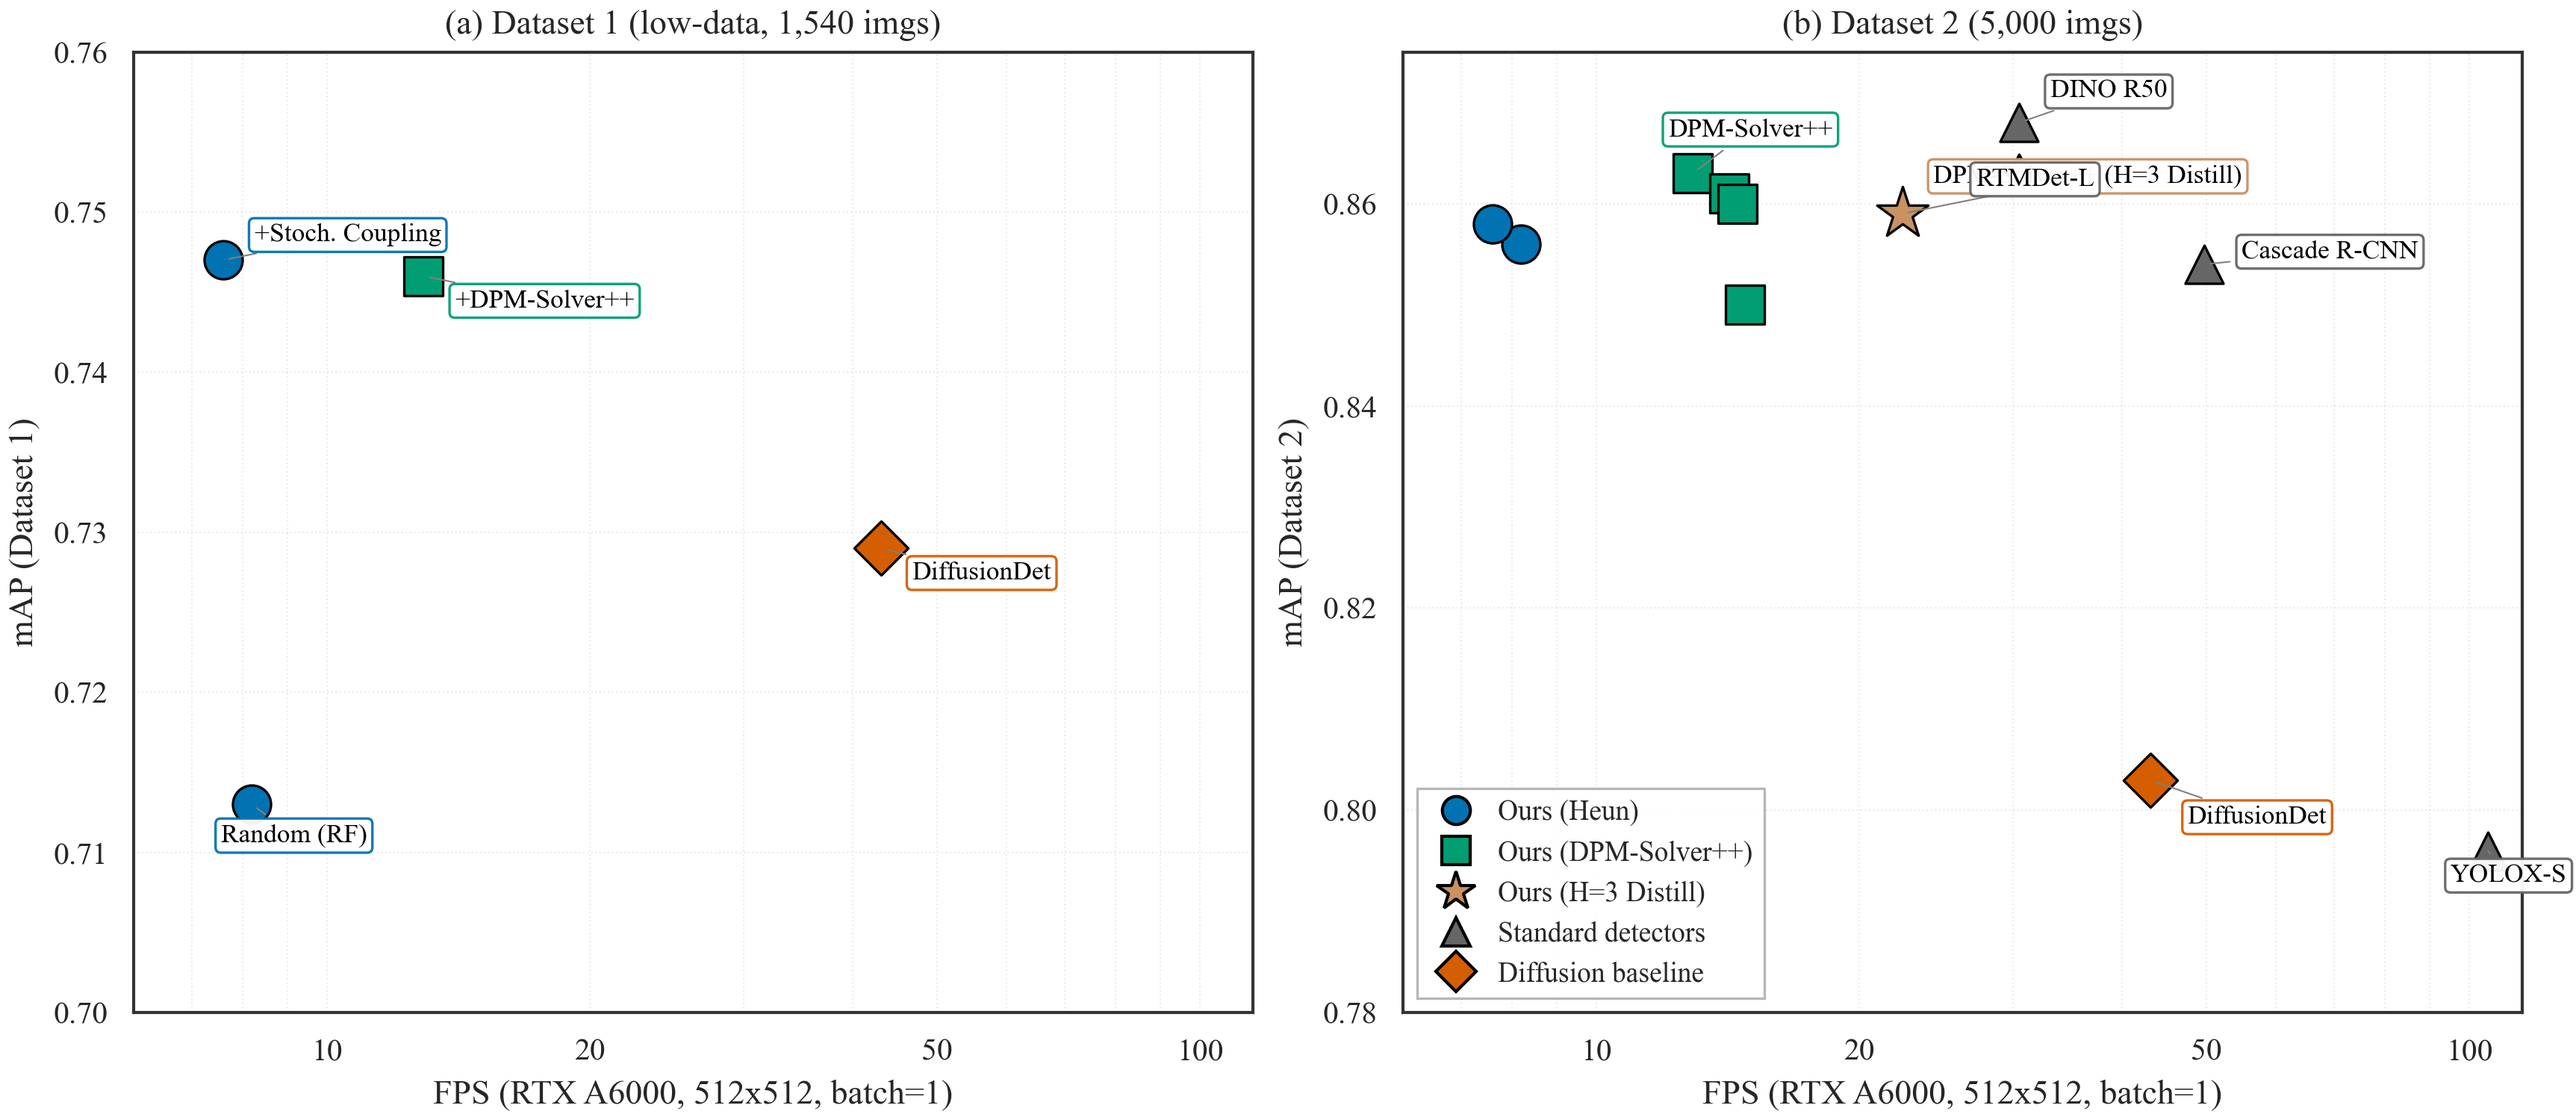
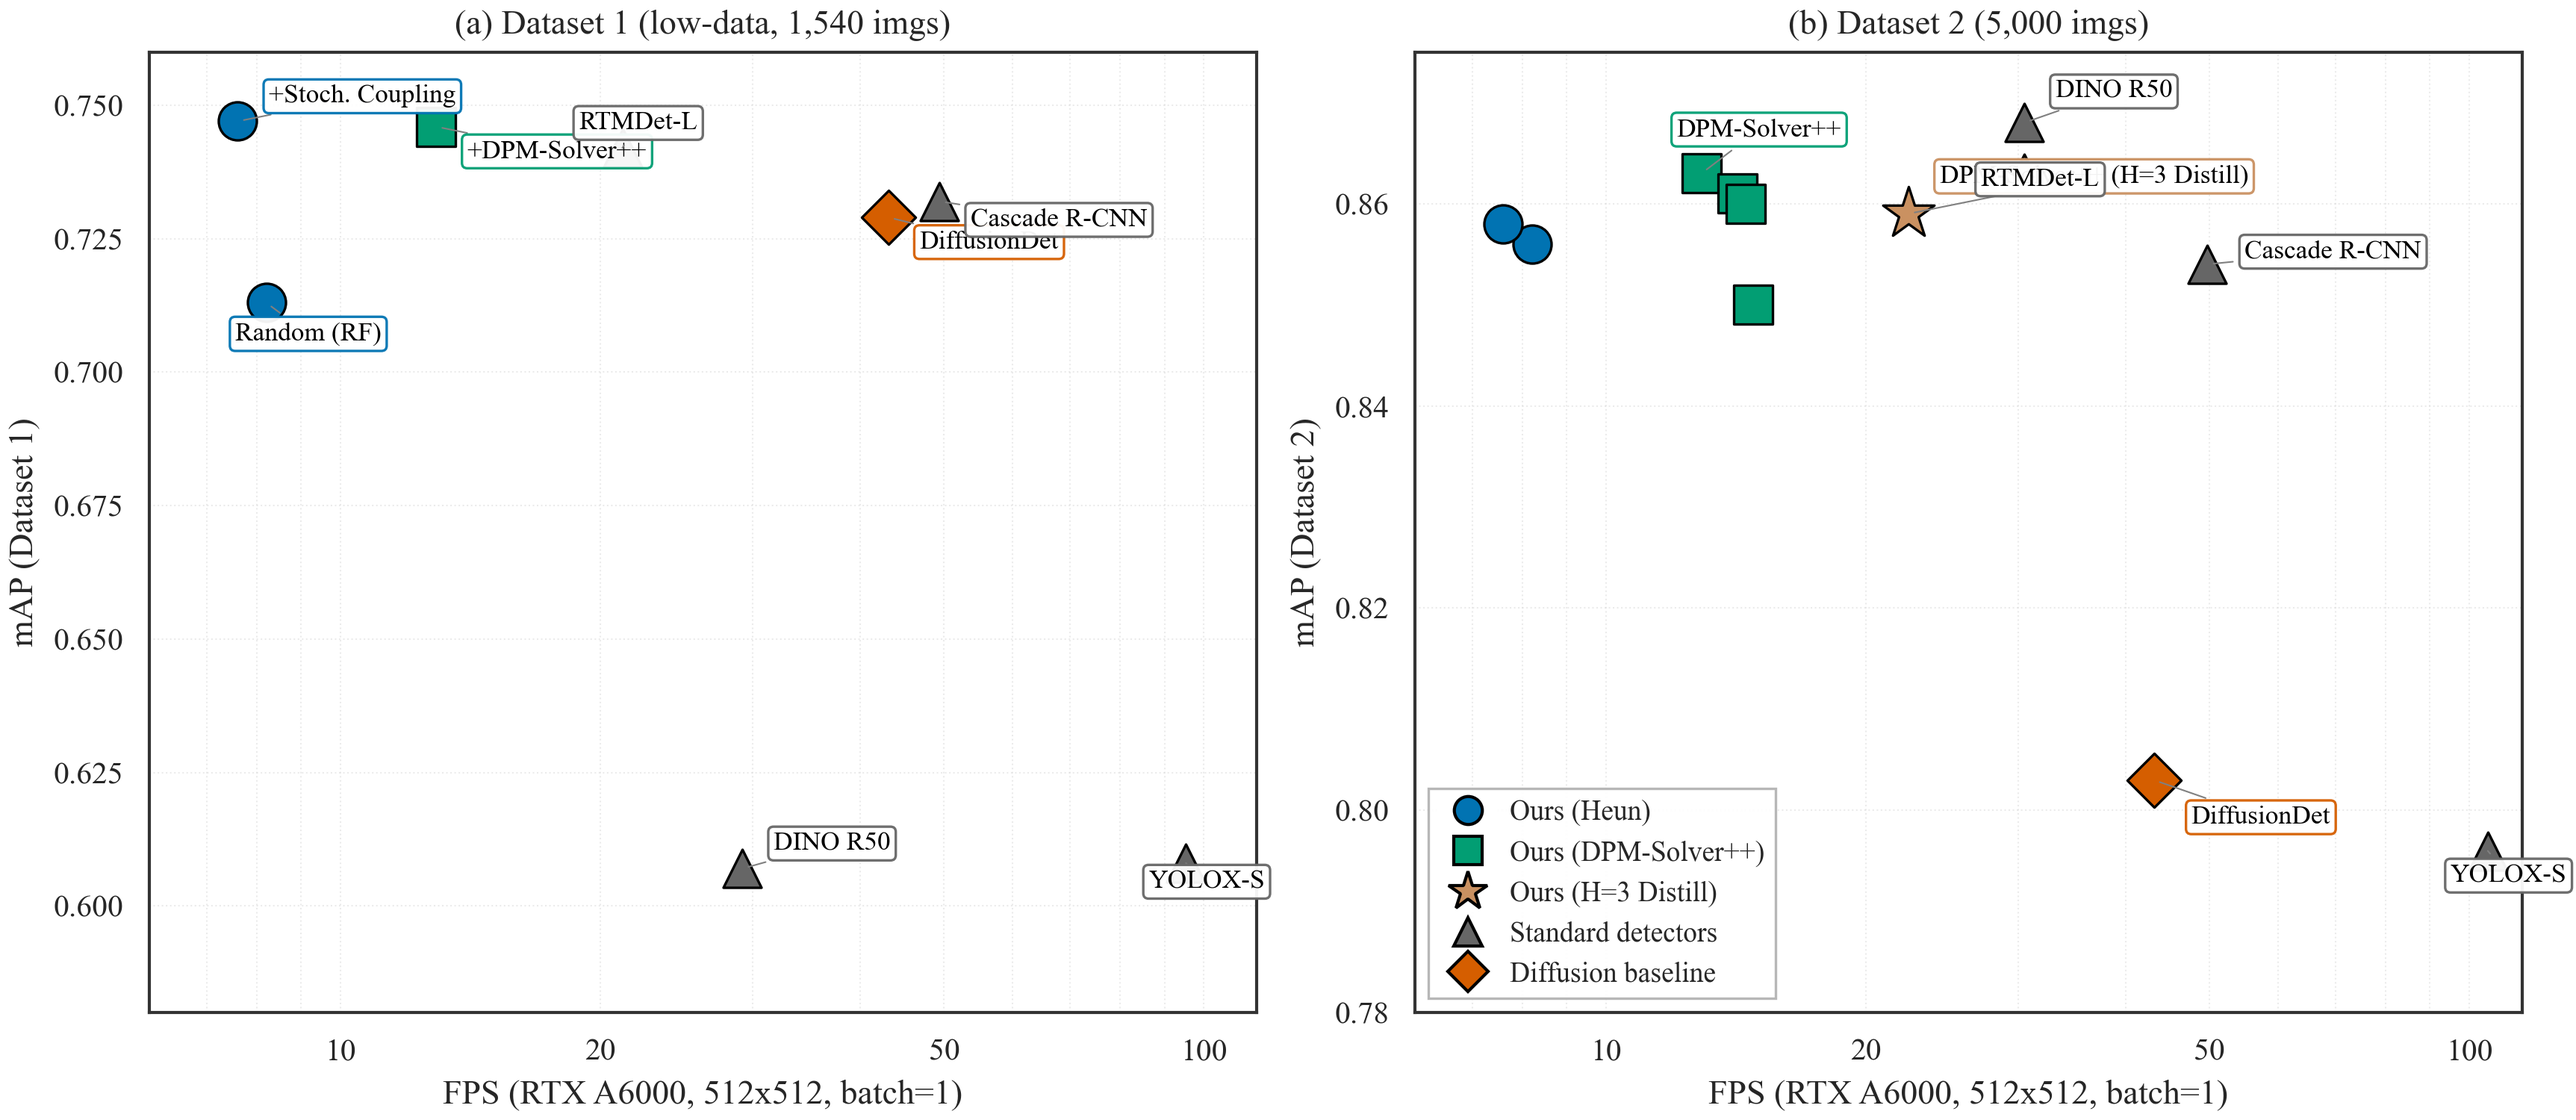
feat(figure): 图8添加Dataset1标准检测器数据点并重新生成
fps_map.py DATA_D1新增4个标准检测器:
- Cascade R-CNN: 49.4 FPS, mAP=0.732
- RTMDet-L: 21.2 FPS, mAP=0.742
- YOLOX-S: 95.3 FPS, mAP=0.608
- DINO R50: 29.2 FPS, mAP=0.607 (31/150ep, 未完成)
ylim从(0.700,0.760)扩大至(0.580,0.760)以容纳全部数据点。
更新docstring反映标准检测器已在Dataset1上评估。

diff --git a/docs/paper/latex/figures/fps_map.py b/docs/paper/latex/figures/fps_map.py
@@ -8,13 +8,17 @@ category" convention shared with solver_ablation.py and per_class_ap.py.
 
 Two panels:
   (a) Dataset 1 (Chromosome20240904, 1540 imgs, low-data regime):
-      Only KaryoFlow variants + DiffusionDet have mAP here. The standard
-      discriminative detectors (Cascade R-CNN / YOLOX-S / RTMDet-L / DINO R50)
-      were trained and evaluated ONLY on Dataset 2, so they do not appear in
-      this panel. The "Random (RF)" point visualises the OT-diversity-collapse
-      pathology: Random coupling collapses to 0.713 (below the DDPM baseline
-      0.729), while Stochastic Coupling recovers to 0.747 — at no speed cost
-      (same Heun architecture).
+      KaryoFlow variants + DiffusionDet + standard discriminative detectors
+      (Cascade R-CNN / YOLOX-S / RTMDet-L / DINO R50) all have mAP here.
+      Standard detectors show severe degradation under data scarcity (DINO R50
+      0.868→0.607, −30.1%; RTMDet-L 0.863→0.742, −14.0%), while KaryoFlow
+      (+Stoch. Coupling 0.747) surpasses all of them — supporting the claim
+      that diffusion-based detectors match frontier detectors under data
+      scarcity. DINO R50 trained only 31/150 ep (incomplete) but its
+      degradation trend is already the worst. The "Random (RF)" point
+      visualises the OT-diversity-collapse pathology: Random coupling
+      collapses to 0.713 (below the DDPM baseline 0.729), while Stochastic
+      Coupling recovers to 0.747 — at no speed cost (same Heun architecture).
   (b) Dataset 2 (24 Chromosomes Object, 5000 imgs): full method set incl.
       DINO R50 and RTMDet-L.
 
@@ -102,8 +106,11 @@ LABEL_OFFSET_D2 = {
 
 # =====================================================================
 # Dataset 1 (Chromosome20240904, 1540 imgs, low-data regime)
-# Only KaryoFlow variants + DiffusionDet have mAP here; standard detectors
-# were NOT evaluated on Dataset 1. "Random (RF)" is the coupling-ablation
+# Standard detectors (Cascade R-CNN / RTMDet-L / YOLOX-S / DINO R50) were
+# trained on Dataset 1 (2026-07-29, workstation/local A6000) to demonstrate
+# "discriminative paradigms lose advantage under data scarcity". DINO R50
+# only trained 31/150 ep (incomplete) but its degradation trend is already
+# clear (0.607, worst among all). "Random (RF)" is the coupling-ablation
 # point showing OT diversity collapse (0.713, below DDPM baseline 0.729).
 # FPS reuses the architecturally-matched Dataset 2 measurement (see docstring).
 # =====================================================================
@@ -112,6 +119,10 @@ DATA_D1 = [
     ("Random (RF)",       8.2, 0.713, "ours_heun",  True),   # OT collapse: below DDPM
     ("+Stoch. Coupling",  7.6, 0.747, "ours_heun",  True),   # KaryoFlow (Heun), best
     ("+DPM-Solver++",    12.9, 0.746, "ours_dpmpp", True),   # solver swap, step-aligned
+    ("Cascade R-CNN",    49.4, 0.732, "standard",   True),
+    ("RTMDet-L",         21.2, 0.742, "standard",   True),
+    ("YOLOX-S",          95.3, 0.608, "standard",   True),
+    ("DINO R50",         29.2, 0.607, "standard",   True),   # 31/150 ep, incomplete
 ]
 
 LABEL_OFFSET_D1 = {
@@ -119,6 +130,10 @@ LABEL_OFFSET_D1 = {
     "Random (RF)":       (-10, -12),
     "+Stoch. Coupling":  (10, 6),
     "+DPM-Solver++":     (10, -10),
+    "Cascade R-CNN":     (10, -8),
+    "RTMDet-L":          (-14, 6),
+    "YOLOX-S":           (-12, -8),
+    "DINO R50":          (10, 6),
 }
 
 
@@ -159,7 +174,7 @@ def main() -> None:
                                    constrained_layout=True)
 
     _plot_panel(ax1, DATA_D1, LABEL_OFFSET_D1,
-                ylim=(0.700, 0.760), ylabel_mAP="mAP (Dataset 1)")
+                ylim=(0.580, 0.760), ylabel_mAP="mAP (Dataset 1)")
     _plot_panel(ax2, DATA_D2, LABEL_OFFSET_D2,
                 ylim=(0.780, 0.875), ylabel_mAP="mAP (Dataset 2)")
 
